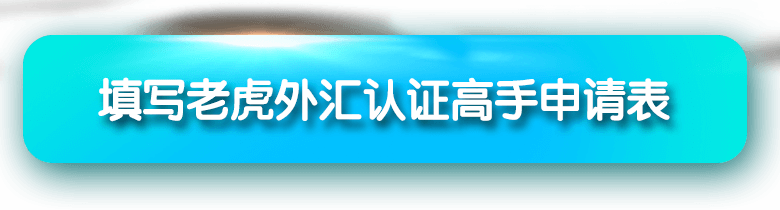
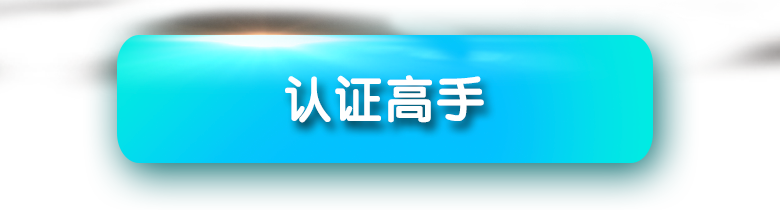
招募高手

diff --git a/client/scripts/bd/recruit/m_recruit.js b/client/scripts/bd/recruit/m_recruit.js
@@ -1,88 +1,88 @@
 ;(function (){
 
-    var content = {};
-    var loading = false;
-    var regExp = {
-        id_no: /(^\d{15}$)|(^\d{18}$)|(^\d{17}(\d|X|x)$)/,
-        phone: /^\d{11}$/,
-        email: /^[a-zA-Z0-9_-]+@[a-zA-Z0-9_-]+(\.[a-zA-Z0-9_-]+)+$/,
-        real_name: /^[\u4e00-\u9fa5]+$/
-    };
 
-	$(document).on("tap", ".m_recruit_download a", function () {
+
+
+    // var content = {};
+    // var loading = false;
+    // var regExp = {
+    //     id_no: /(^\d{15}$)|(^\d{18}$)|(^\d{17}(\d|X|x)$)/,
+    //     phone: /^\d{11}$/,
+    //     email: /^[a-zA-Z0-9_-]+@[a-zA-Z0-9_-]+(\.[a-zA-Z0-9_-]+)+$/,
+    //     real_name: /^[\u4e00-\u9fa5]+$/
+    // };
+
+	$(document).on("tap", ".m_recruit_download span", function () {
         if (isInTiger()) {
-            var action_address = window.location.origin + $(this).attr("href");
-            // console.info(action_address);
             callNative({
-                type: "openUrl",
-                url: action_address
+                type: "back_apply_master"
             });
             return false;
         }
     });
 
-    $(document).on("tap", ".m_recruit_info_btn .btn", function () {
-        if (loading) return;
-        content = {};
-        var $content = $(".m_recruit_info_form [data-sign]");
-        var success = true;
+    // $(document).on("tap", ".m_recruit_info_btn .btn", function () {
+    //     if (loading) return;
+    //     content = {};
+    //     var $content = $(".m_recruit_info_form [data-sign]");
+    //     var success = true;
 
-        $.each($content, function (idnex, value) {
+    //     $.each($content, function (idnex, value) {
 
-            content[$(value).attr("name")] = $(value).val();
-        });
+    //         content[$(value).attr("name")] = $(value).val();
+    //     });
 
-        for (name in content) {
-            if ((name !== 'address') && !content[name]) {
-                success = false;
-            }
-        }
-        // console.log(content, success);
+    //     for (name in content) {
+    //         if ((name !== 'address') && !content[name]) {
+    //             success = false;
+    //         }
+    //     }
+    //     // console.log(content, success);
 
-        if (success) {
-            //校验正则
-            if (!regExp.real_name.test(content.real_name)) {
-                alert('真实姓名填写有误');
-                return false;
-            }
-            if (!regExp.id_no.test(content.id_no)) {
-                alert('身份证号码填写有误');
-                return false;
-            }
-            if (!regExp.phone.test(content.phone)) {
-                alert('手机号码填写有误');
-                return false;
-            }
-            if (!regExp.email.test(content.email)) {
-                alert('邮箱填写有误');
-                return false;
-            }
+    //     if (success) {
+    //         //校验正则
+    //         if (!regExp.real_name.test(content.real_name)) {
+    //             alert('真实姓名填写有误');
+    //             return false;
+    //         }
+    //         if (!regExp.id_no.test(content.id_no)) {
+    //             alert('身份证号码填写有误');
+    //             return false;
+    //         }
+    //         if (!regExp.phone.test(content.phone)) {
+    //             alert('手机号码填写有误');
+    //             return false;
+    //         }
+    //         if (!regExp.email.test(content.email)) {
+    //             alert('邮箱填写有误');
+    //             return false;
+    //         }
 
-            loading = true;
+    //         loading = true;
 
-            publicRequest('recruitMaster', 'POST', content).then(function (data) {
-                // console.log(data);
-                loading = false;
-                if (data.is_succ) {
-                    if (isInTiger()) {
-                        var action_address = window.location.origin + '/bd/recruit_master/complete';
-                        // console.info(action_address);
-                        callNative({
-                            type: "openUrlOnce",
-                            url: action_address
-                        });
-                    } else {
-                        window.location.href = '/bd/recruit_master/complete';
-                    }
-                } else {
-                    alert(data.message);
-                }
-            });
+    //         publicRequest('recruitMaster', 'POST', content).then(function (data) {
+    //             // console.log(data);
+    //             loading = false;
+    //             if (data.is_succ) {
+    //                 if (isInTiger()) {
+    //                     var action_address = window.location.origin + '/bd/recruit_master/complete';
+    //                     // console.info(action_address);
+    //                     callNative({
+    //                         type: "openUrlOnce",
+    //                         url: action_address
+    //                     });
+    //                 } else {
+    //                     window.location.href = '/bd/recruit_master/complete';
+    //                 }
+    //             } else {
+    //                 alert(data.message);
+    //             }
+    //         });
             
-        } else {
-            alert("请将信息填写完整!");
-        }
+    //     } else {
+    //         alert("请将信息填写完整!");
+    //     }
 
-        return false;
-    });
+    //     return false;
+    // });
 })();

diff --git a/client/views/bd/recruit/web.html b/client/views/bd/recruit/web.html
@@ -25,7 +25,7 @@
                     <img src="/images/bd_recruit/comm_title.png">
                 </div>
                 <div class="bd_recruit_btn_box1">
-                    <span class="bd_recruit_btn">认证高手是什么？</span>
+                    <span class="bd_recruit_btn">什么是高手？</span>
                 </div>
                 <ul class="bd_recruit_icon_box clearfix">
                     <li class="bd_recruit_icon">
@@ -54,20 +54,13 @@
                 </div>
                 <ul class="bd_recruit_reward_box">
                     <li class="bd_recruit_reward reward1">
-                        高手享有官方认证荣誉标签；
-                    </li>
-                    <li class="bd_recruit_reward reward2">
                         高手享有交易操作部分盈利作为分成奖励；
                     </li>
+                    <li class="bd_recruit_reward reward2">
+                        高手享有专属运营管理员的vip服务；
+                    </li>
                     <li class="bd_recruit_reward reward3">
-                        高手享有专属运营管理员的VIP级服务；
-                    </li>
-                    <li class="bd_recruit_reward reward4">
-                        高手享有平台不定期打造的明星高手专题活动；
-                    </li>
-                    <li class="bd_recruit_reward reward5">
-                        按照提交申请的先后顺序，通过申请的前20名认证高手， 将额外获得50美金奖励红包
-                        <span>（通过认证后14日内完成1手交易即可兑现）。</span>
+                        高手享有平台不定期打造的明星高手专题推广机会。
                     </li>
                 </ul>
                 <div class="bd_recruit_btn_box3">
@@ -79,7 +72,7 @@
                             <img src="/images/bd_recruit/comm_shape.png">
                         </div>
                         <div class="tip">
-                            高手需要提供个人详细信息，平台将根据高手交易情况进行交易经验、策略等展示；
+                            1、高手需要提供个人信息资料作为备案；
                         </div>
                     </li>
                     <li class="bd_recruit_task clearfix">
@@ -87,7 +80,7 @@
                             <img src="/images/bd_recruit/comm_shape.png">
                         </div>
                         <div class="tip">
-                            高手需要与平台建立交流互动关系，针对跟单者所需内容提供相关的配套服务；
+                            2、高手针对跟单者跟单交易方面疑问，提供相关策略和思路解答；
                         </div>
                     </li>
                     <li class="bd_recruit_task clearfix">
@@ -95,15 +88,7 @@
                             <img src="/images/bd_recruit/comm_shape.png">
                         </div>
                         <div class="tip">
-                            针对高手账户风险过高或一切不利跟单者的情况下，平台会做出提示，高手需要根据实 际情况做出妥善改进；
-                        </div>
-                    </li>
-                    <li class="bd_recruit_task clearfix">
-                        <div class="shape">
-                            <img src="/images/bd_recruit/comm_shape.png">
-                        </div>
-                        <div class="tip">
-                            如高手认证后不符合上榜标准或净值浮亏较大，平台有权将高手下榜或取消认证资格。
+                            3、高手需本着对跟随者负责的态度，严格交易风控意识，账户风险过高，或致使跟单者风险较大时，平台会做出提示，高手需根据实际情况做出交易账户妥善调整。
                         </div>
                     </li>
                 </ul>
@@ -123,14 +108,11 @@
                     <li class="bd_recruit_condition">
                         4、账户<span>余额不得低于500美金</span>；
                     </li>
-                    <li class="bd_recruit_condition">
-                        5、填写《老虎外汇认证高手申请表》并发送到指定邮箱。
-                    </li>
                 </ul>
                 <div class="bd_recruit_download">
-                    <a href="/bd/recruit_master/info" target="_blank"><img src="/images/bd_recruit/web_download_new.png"></a>
+                    <a href="/space/#/space/master/apply" target="_blank"><img src="/images/bd_recruit/web_download_new.png"></a>
                 </div>
-                <div class="bd_recruit_qq">如有任何疑问请联系QQ号：3250619100</div>
+                <div class="bd_recruit_qq">如有任何疑问，请联系高手运营管理员QQ:3250619100</div>
             </div>
         </div>
         <div class="bd_recruit_footer">

diff --git a/client/views/bd/recruit/h5.html b/client/views/bd/recruit/h5.html
@@ -33,7 +33,7 @@
             <img src="/images/bd_recruit/comm_title.png">
         </div>
         <div class="m_recruit_btn_box1">
-            <span class="m_recruit_btn">认证高手是什么？</span>
+            <span class="m_recruit_btn">什么是高手？</span>
         </div>
         <ul class="clearfix">
             <li class="m_recruit_icon_box">
@@ -62,20 +62,13 @@
         </div>
         <ul class="m_recruit_reward_box">
             <li class="m_recruit_reward reward1">
-                高手享有官方认证荣誉标签；
-            </li>
-            <li class="m_recruit_reward reward2">
                 高手享有交易操作部分盈利作为分成奖励；
             </li>
+            <li class="m_recruit_reward reward2">
+                高手享有专属运营管理员的vip服务；
+            </li>
             <li class="m_recruit_reward reward3">
-                高手享有专属运营管理员的VIP级服务；
-            </li>
-            <li class="m_recruit_reward reward4">
-                高手享有平台不定期打造的明星高手专题活动；
-            </li>
-            <li class="m_recruit_reward reward5">
-                按照提交申请的先后顺序，通过申请的前20名认证高手， 将额外获得50美金奖励红包
-                <span>（通过认证后14日内完成1手交易即可兑现）。</span>
+                高手享有平台不定期打造的明星高手专题推广机会。
             </li>
         </ul>
         <div class="m_recruit_btn_box3">
@@ -87,7 +80,7 @@
                     <img src="/images/bd_recruit/comm_shape.png">
                 </div>
                 <div class="tip">
-                    高手需要提供个人详细信息，平台将根据高手交易情况进行交易经验、策略等展示；
+                    1、高手需要提供个人信息资料作为备案；
                 </div>
             </li>
             <li class="m_recruit_task clearfix">
@@ -95,7 +88,7 @@
                     <img src="/images/bd_recruit/comm_shape.png">
                 </div>
                 <div class="tip">
-                    高手需要与平台建立交流互动关系，针对跟单者所需内容提供相关的配套服务；
+                    2、高手针对跟单者跟单交易方面疑问，提供相关策略和思路解答；
                 </div>
             </li>
             <li class="m_recruit_task clearfix">
@@ -103,20 +96,12 @@
                     <img src="/images/bd_recruit/comm_shape.png">
                 </div>
                 <div class="tip">
-                    针对高手账户风险过高或一切不利跟单者的情况下，平台会做出提示，高手需要根据实 际情况做出妥善改进；
-                </div>
-            </li>
-            <li class="m_recruit_task clearfix">
-                <div class="shape">
-                    <img src="/images/bd_recruit/comm_shape.png">
-                </div>
-                <div class="tip">
-                    如高手认证后不符合上榜标准或净值浮亏较大，平台有权将高手下榜或取消认证资格。
+                    3、高手需本着对跟随者负责的态度，严格交易风控意识，账户风险过高，或致使跟单者风险较大时，平台会做出提示，高手需根据实际情况做出交易账户妥善调整。
                 </div>
             </li>
         </ul>
         <div class="m_recruit_btn_box4">
-            <span class="m_recruit_btn">如何成为认证高手？</span>
+            <span class="m_recruit_btn">如何成为高手？</span>
         </div>
         <ul class="m_recruit_condition_box">
             <li class="m_recruit_condition">
@@ -131,11 +116,8 @@
             <li class="m_recruit_condition">
                 4、账户<span>余额不得低于500美金</span>；
             </li>
-            <li class="m_recruit_condition">
-                5、填写《老虎外汇认证高手申请表》并发送到指定邮箱。
-            </li>
             <li class="m_recruit_condition qq">
-                如有任何疑问请联系QQ号：3250619100
+                如有任何疑问，请联系高手运营管理员QQ:3250619100
             </li>
         </ul>
         <div class="m_recruit_footer">
@@ -143,7 +125,7 @@
         </div>
     </div>
     <div class="m_recruit_download">
-        <a href="/bd/recruit_master/info" target="_blank" class="btn btn-primary-gradient">填写老虎外汇认证高手申请表</a>
+        <span class="btn btn-primary-gradient">认证高手</span>
     </div>
 </div>
 </body>

diff --git a/client/styles/bd/recruit/h5.scss b/client/styles/bd/recruit/h5.scss
@@ -3,7 +3,7 @@
     background-position: center top;
     background-size: auto 100%;
     position: relative;
-    height: px2rem(3500);
+    height: px2rem(3100);
 
     .m_recruit_logo {
     	text-align: center;
@@ -89,7 +89,7 @@
     	.m_recruit_reward {
 		    position: relative;
 		    width: 100%;
-		    font-size: px2rem(24);
+		    font-size: px2rem(22);
 		    padding: px2rem(36) 0 px2rem(28);
 		    padding-left: px2rem(90);
 

diff --git a/client/styles/bd/recruit/web.scss b/client/styles/bd/recruit/web.scss
@@ -2,7 +2,7 @@
 	background: url("/images/bd_recruit/web_bg.png") no-repeat;
     background-position: center top;
     background-size: auto 100%;
-    height: 4800px;
+    height: 4300px;
     margin-top: 69px;
 
     .bd_recruit_logo {
